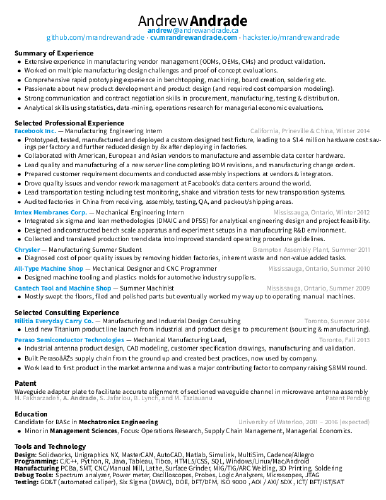
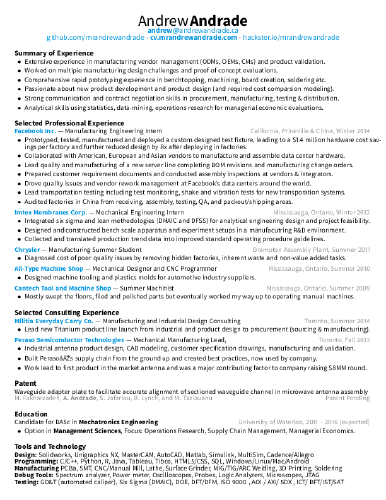
small typo

diff --git a/manufacturing-resume/andrew-andrade-manufacturing.tex b/manufacturing-resume/andrew-andrade-manufacturing.tex
@@ -72,7 +72,7 @@
 
 \item Prototyped, tested, manufactured and deployed a custom designed test fixture, leading to a \$1.4 million hardware cost savings per factory and further reduced design by 8x after deploying in factories.
 \item Collaborated with American, European and Asian vendors to manufacture and assemble data center hardware.
-\item Lead quality and manufacturing of a new server line completing BOM revisions, and manufacturing change orders.
+\item Lead quality and manufacturing of a new server line completing BOM revisions and manufacturing change orders.
 \item Prepared customer requirement documents and conducted assembly inspections at vendors \& integrators.
 \item Drove quality issues and vendor rework management at Facebook's data centers around the world.
 \item Lead transportation testing including test monitoring, shake and vibration tests for new transporation systems.
@@ -123,7 +123,7 @@ Waveguide adapter plate to facilitate accurate alignment of sectioned waveguide 
 \subsection*{Education}
 Candidate for BASc in \textbf{Mechatronics Engineering} \hfill {\color{gray} University of Waterloo, 2011 -- 2016 (expected)}
 \begin{itemize}
-  \item Minor in \textbf{Management Sciences}, Focus: Operations Research, Supply Chain Management, Managerial Economics.
+  \item Option in \textbf{Management Sciences}, Focus: Operations Research, Supply Chain Management, Managerial Economics.
 \end{itemize}
 
 \subsection*{Tools and Technology}
